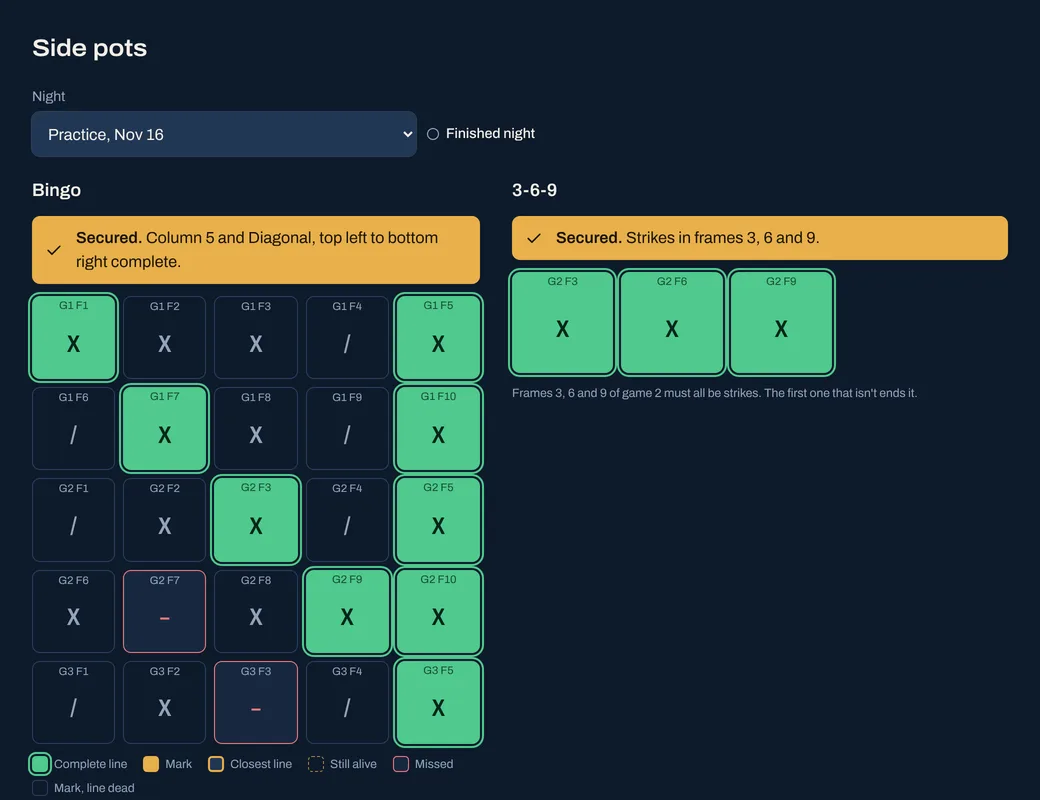
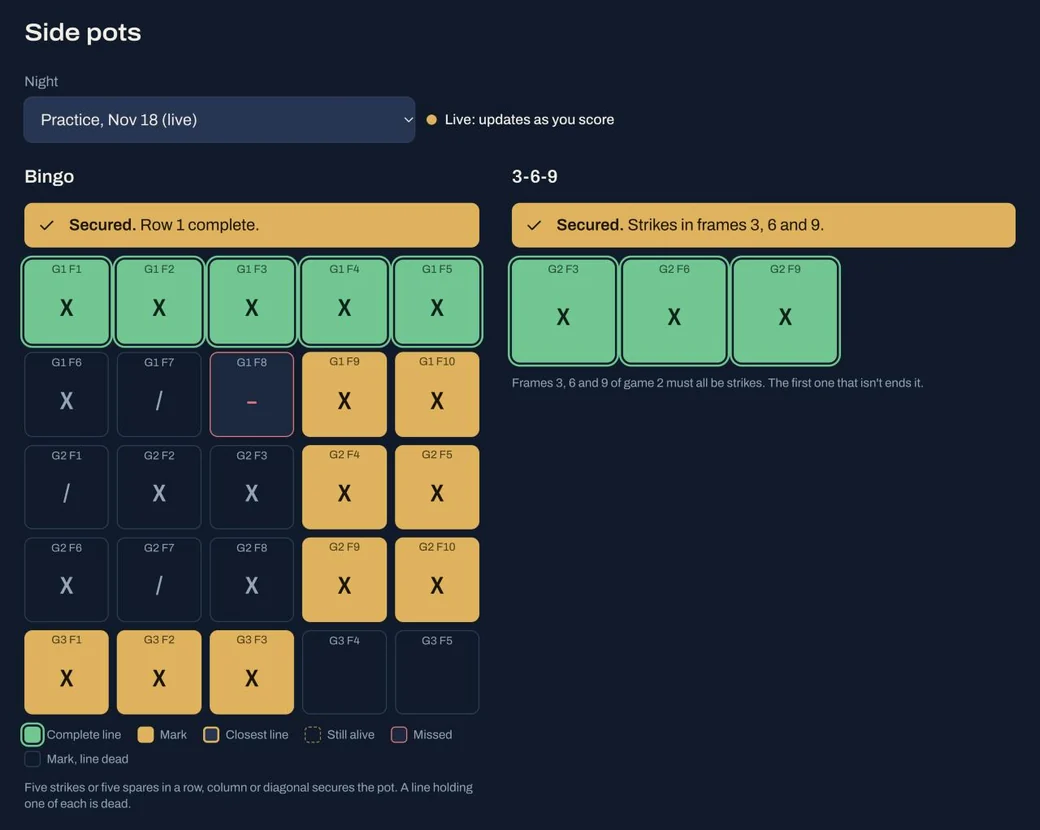
Capitalize timeline titles; new Kingpin side pots screenshot

diff --git a/index.html b/index.html
@@ -267,7 +267,7 @@
                   <picture class="absolute right-3 bottom-3 block w-[46%] overflow-hidden rounded-lg border border-border shadow-card-hover sm:right-4 sm:bottom-4">
                     <source type="image/avif" srcset="/Assets/img/bowling-pots-520.avif 520w, /Assets/img/bowling-pots-1040.avif 1040w" sizes="(min-width: 768px) 250px, 46vw" />
                     <source type="image/webp" srcset="/Assets/img/bowling-pots-520.webp 520w, /Assets/img/bowling-pots-1040.webp 1040w" sizes="(min-width: 768px) 250px, 46vw" />
-                    <img src="/Assets/img/bowling-pots-1040.webp" width="1040" height="800" loading="lazy" decoding="async" alt="Side pots screen for a practice night: bingo and 3-6-9 both secured, with the winning frames highlighted on the board" class="block w-full" />
+                    <img src="/Assets/img/bowling-pots-1040.webp" width="1040" height="830" loading="lazy" decoding="async" alt="Kingpin side pots during a live practice night: bingo secured by five strikes in row 1, row 2 broken by an open frame, row 5 still in progress, and 3-6-9 won with strikes in frames 3, 6 and 9" class="block w-full" />
                   </picture>
                 </div>
                 <div class="flex flex-1 flex-col p-6 sm:p-7">
@@ -472,19 +472,19 @@
             <li class="relative">
               <span class="absolute top-1.5 -left-[29px] size-2.5 rounded-full bg-accent ring-4 ring-bg" aria-hidden="true"></span>
               <p class="text-sm text-muted">2026 – present</p>
-              <p class="mt-1 font-display font-semibold text-fg">Freelance frontend developer</p>
+              <p class="mt-1 font-display font-semibold text-fg">Freelance Frontend Developer</p>
               <p class="mt-1 text-sm text-muted">Client work and personal projects, including AP Plumbing and Poker Table.</p>
             </li>
             <li class="relative">
               <span class="absolute top-1.5 -left-[29px] size-2.5 rounded-full bg-muted ring-4 ring-bg" aria-hidden="true"></span>
               <p class="text-sm text-muted">2026 · Virtual internship · Frontend Simplified</p>
-              <p class="mt-1 font-display font-semibold text-fg">Frontend developer intern</p>
+              <p class="mt-1 font-display font-semibold text-fg">Frontend Developer Intern</p>
               <p class="mt-1 text-sm text-muted">Built the NFT Marketplace and Summarist feature by feature, with pull-request review.</p>
             </li>
             <li class="relative">
               <span class="absolute top-1.5 -left-[29px] size-2.5 rounded-full bg-muted ring-4 ring-bg" aria-hidden="true"></span>
               <p class="text-sm text-muted">2017 – present · 9+ years</p>
-              <p class="mt-1 font-display font-semibold text-fg">Special Projects Analyst, healthcare revenue cycle</p>
+              <p class="mt-1 font-display font-semibold text-fg">Special Projects Analyst, Healthcare Revenue Cycle</p>
               <p class="mt-1 text-sm text-muted">Rules-heavy workflows, accuracy and compliance, cross-team communication.</p>
             </li>
           </ol>
